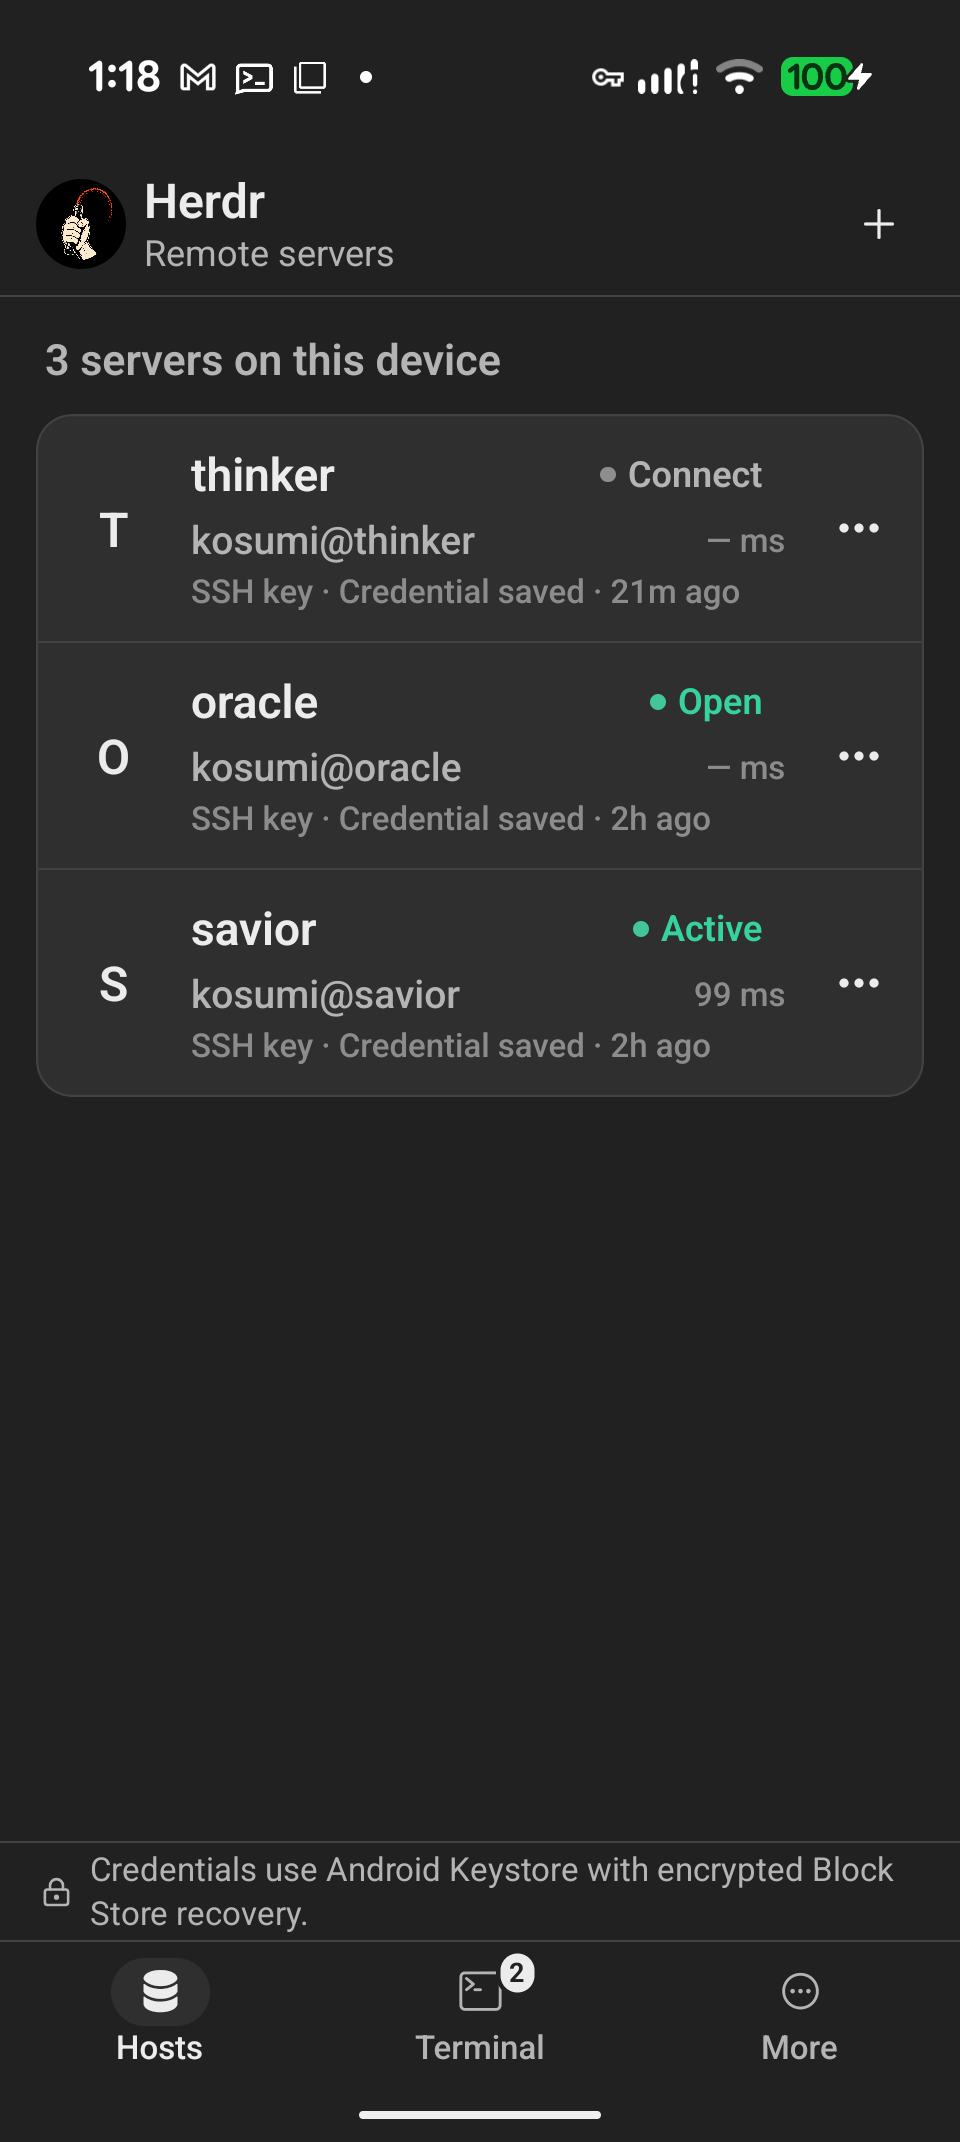
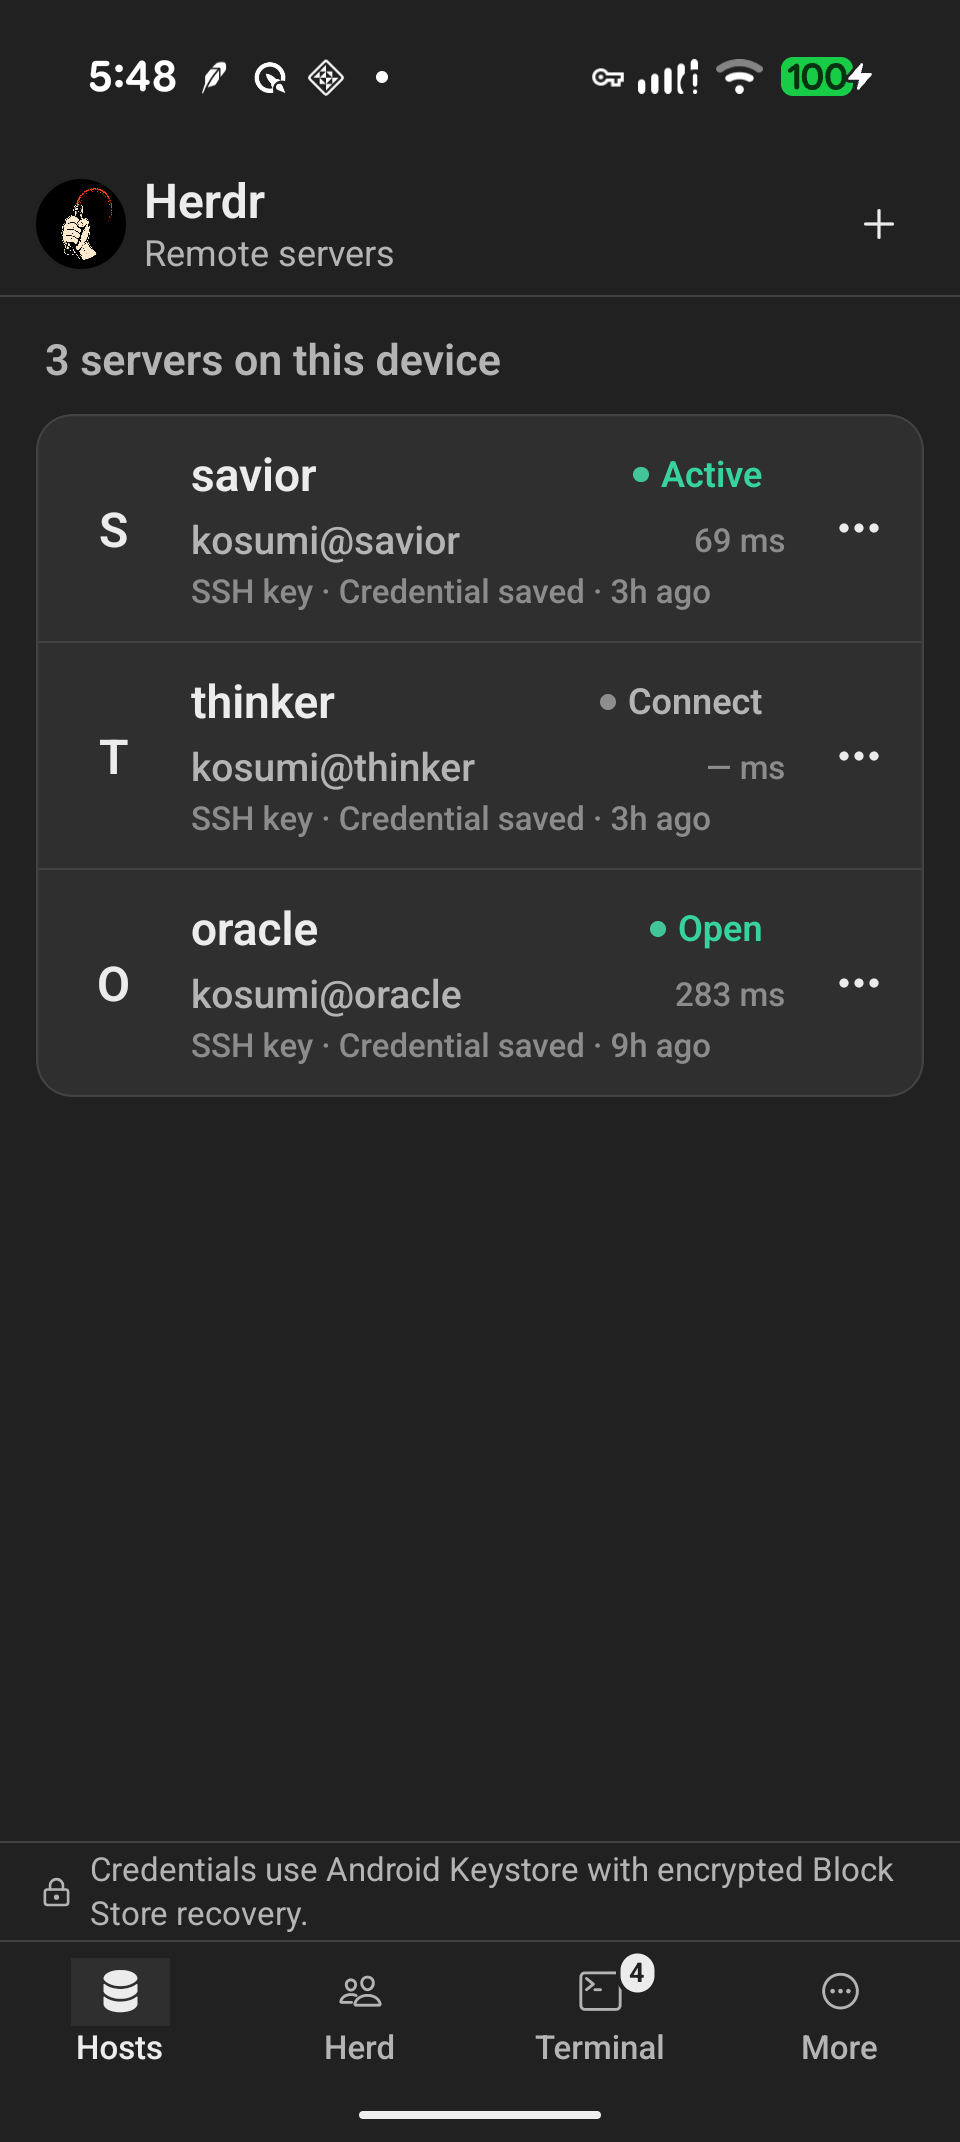
doc: refresh README screenshots

diff --git a/README.md b/README.md
@@ -6,7 +6,7 @@
 
 <p align="center">
   <strong>Keep your Herdr agents within reach.</strong><br>
-  An independent Android client for supervising agents, navigating workspaces, and opening pane terminals over SSH.
+  An independent Android client for supervising agents, scoping hosts and spaces, and opening pane terminals over SSH.
 </p>
 
 <p align="center">
@@ -15,6 +15,8 @@
 </p>
 
 Whip gives [Herdr](https://github.com/ogulcancelik/herdr) a touch-friendly Android interface without exposing Herdr itself to the network or requiring changes on the host. It connects directly to your machine over SSH—ideally through Tailscale—and rebuilds the management experience as native screens. A terminal appears only when you choose to attach to a pane.
+
+The app separates connection management from daily supervision: **Hosts** manages saved SSH endpoints, **Herd** merges their agents into a scoped attention queue, **Terminal** lists open pane sessions, and **More** holds notification, appearance, and terminal preferences.
 
 Whip is not developed, maintained, or endorsed by the Herdr project or its authors.
 
@@ -25,27 +27,34 @@ Whip is not developed, maintained, or endorsed by the Herdr project or its autho
 
 <table>
   <tr>
-    <td align="center"><img src="assets/screenshots/hosts.png" alt="Whip Hosts screen showing several saved Herdr servers and connection status" width="260"></td>
-    <td align="center"><img src="assets/screenshots/terminal.png" alt="Whip terminal showing host, workspace, tab, agent output, and mobile controls" width="260"></td>
-    <td align="center"><img src="assets/screenshots/settings.png" alt="Whip Settings screen showing notifications, speech, appearance, and terminal preferences" width="260"></td>
+    <td align="center"><img src="assets/screenshots/hosts.png" alt="Whip Hosts screen showing saved Herdr servers, connection state, and latency" width="320"></td>
+    <td align="center"><img src="assets/screenshots/herd.png" alt="Whip Herd screen showing merged host scopes, agent totals, and the attention queue" width="320"></td>
   </tr>
   <tr>
     <td align="center"><strong>Manage every host</strong><br>See live connection state, latency, and saved authentication at a glance.</td>
-    <td align="center"><strong>Work from anywhere</strong><br>Switch hosts, spaces, and tabs while interacting with a live agent terminal.</td>
-    <td align="center"><strong>Tune your workflow</strong><br>Configure agent alerts, speech, appearance, and terminal behavior.</td>
+    <td align="center"><strong>Watch the whole herd</strong><br>Merge open hosts into one attention queue, then scope it to a host or space.</td>
+  </tr>
+  <tr>
+    <td align="center"><img src="assets/screenshots/terminal.png" alt="Whip terminal showing live agent output, tab controls, a scroll indicator, and mobile keys" width="320"></td>
+    <td align="center"><img src="assets/screenshots/settings.png" alt="Whip Settings screen showing notifications, speech, appearance, and terminal preferences" width="320"></td>
+  </tr>
+  <tr>
+    <td align="center"><strong>Work from anywhere</strong><br>Open a selected pane in the full-width terminal with touch scrolling and mobile controls.</td>
+    <td align="center"><strong>Tune your workflow</strong><br>Configure agent alerts, speech, appearance, font size, and scrollback.</td>
   </tr>
 </table>
 
-Screenshots were captured from the Whip 1.0 release build on a Pixel 9 Pro.
+Screenshots were captured from the current Whip Android build on a Pixel 9 Pro.
 
 ## What you can do
 
-- See working, blocked, done, idle, and unknown agents in a native attention queue.
+- Monitor every open host in one native attention queue, with per-host and per-space scopes.
+- See working, blocked, done, idle, and unknown agents, including their host and space context.
 - Move through Herdr hosts, spaces, tabs, panes, and agents without living in a terminal.
-- Create, focus, rename, split, zoom, inspect, and close workspace resources.
+- Create, focus, rename, split, zoom, inspect, and close space resources.
 - Launch agents, send direct prompts, and send commands or special keys to a pane.
 - Attach to any selected pane through an immersive, xterm-compatible terminal.
-- Use ANSI colors, modifier keys, touch scrolling, double-tap Tab, live resizing, and configurable terminal appearance.
+- Use ANSI colors, modifier keys, touch scrolling, Page Up/Down, a position indicator, double-tap Tab, live resizing, and configurable terminal appearance.
 - Receive local notifications, vibration, and optional speech when an agent becomes blocked or finishes.
 - Save password or private-key credentials with Android Keystore and encrypted, device-authenticated Block Store recovery.
 - Keep several named Herdr hosts open and switch between their live sessions.
